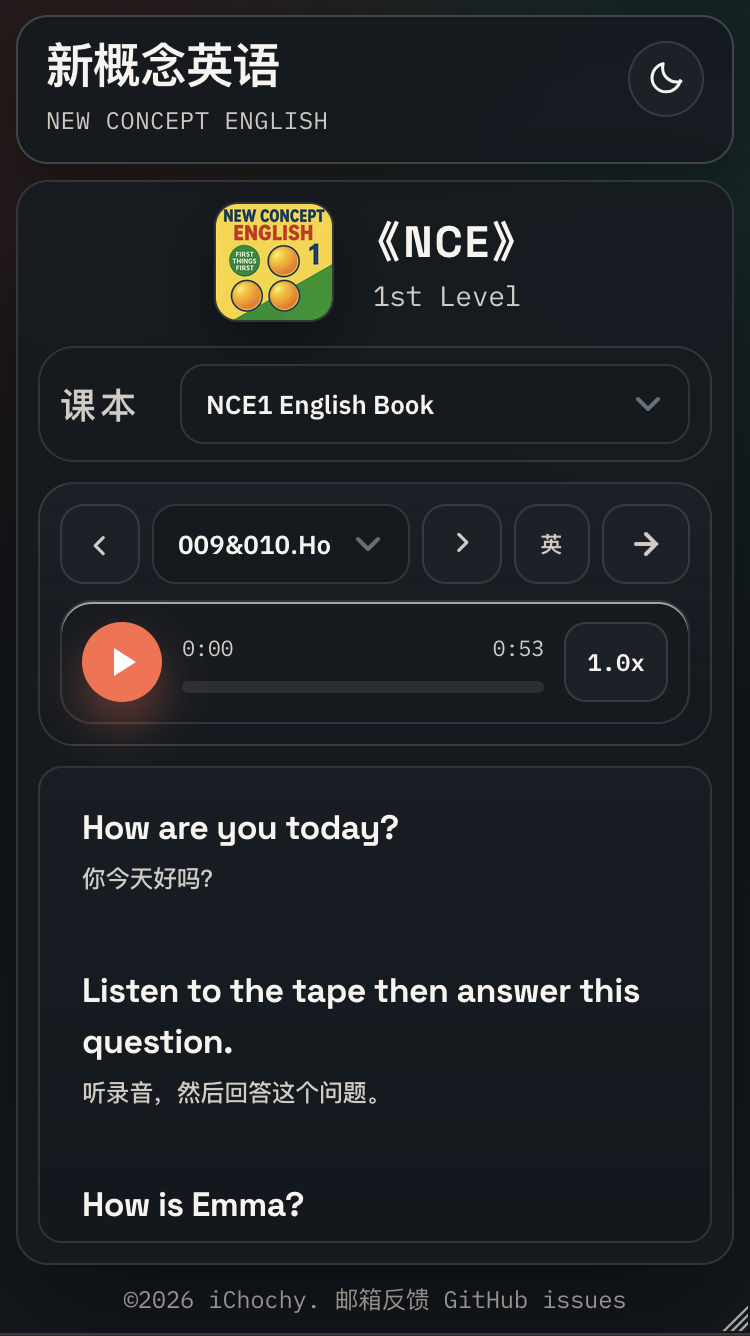
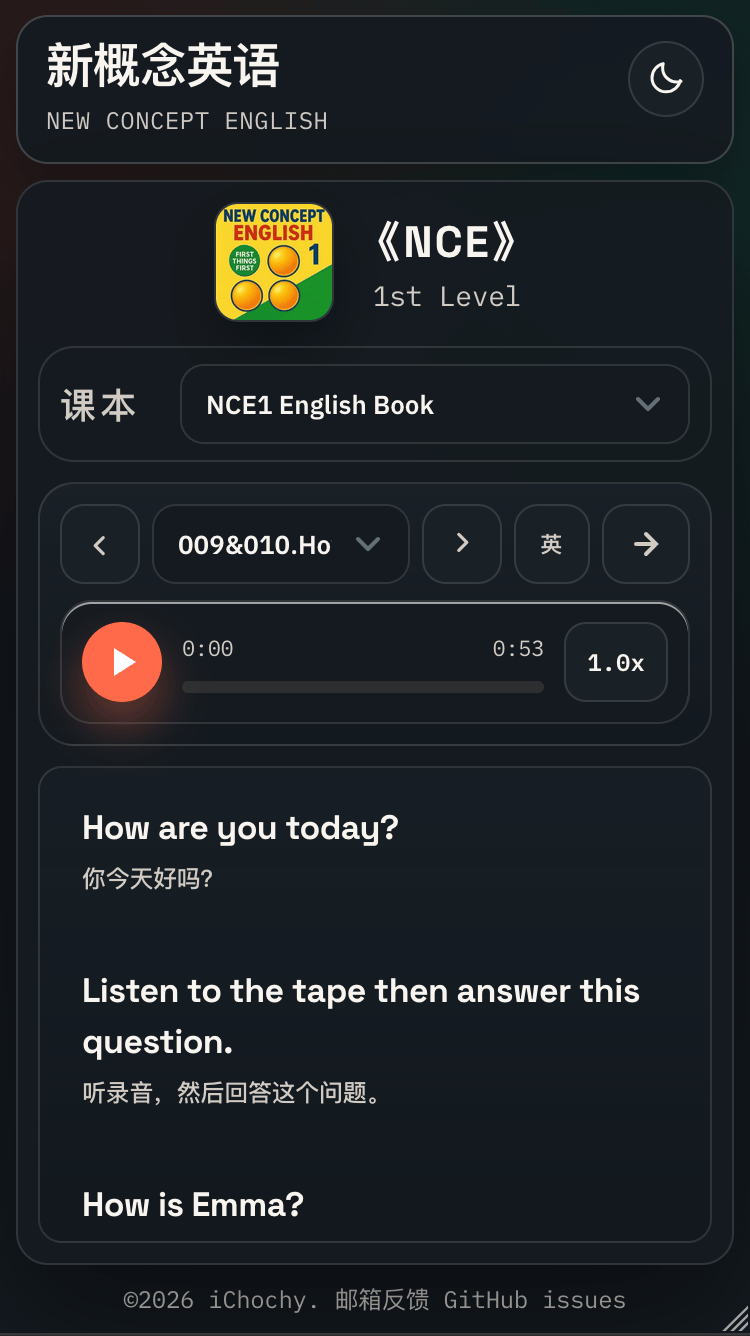
modify style

Changed region(s): [[0.276, 0.1534, 0.46, 0.2455]]

diff --git a/css/style.css b/css/style.css
@@ -1324,7 +1324,6 @@ body::-webkit-scrollbar-thumb:hover,
     align-items: center;
     justify-content: flex-start;
     gap: 4px;
-    padding: 8px;
   }
 
   .book-cover {
@@ -1346,11 +1345,13 @@ body::-webkit-scrollbar-thumb:hover,
   .unit-title-group label,
   .book-info > label {
     width: auto;
+    padding: 4px;
   }
 
   .unit-title-group label {
-    width: min(100%, 180px);
+    /*width: min(100%, 180px);*/
     /*margin-top: 6px;*/
+    max-width: 100%;
   }
 
   .book-info > label {
@@ -1389,9 +1390,8 @@ body::-webkit-scrollbar-thumb:hover,
 
   .unit-select,
   .book-select {
-    min-width: 280px;
-    height: 32px;
-    padding: 0 30px 0 10px;
+    max-width: 100%;
+    height: 30px;
     font-size: 12px;
     background-position: right 10px center;
     background-size: 10px 7px;